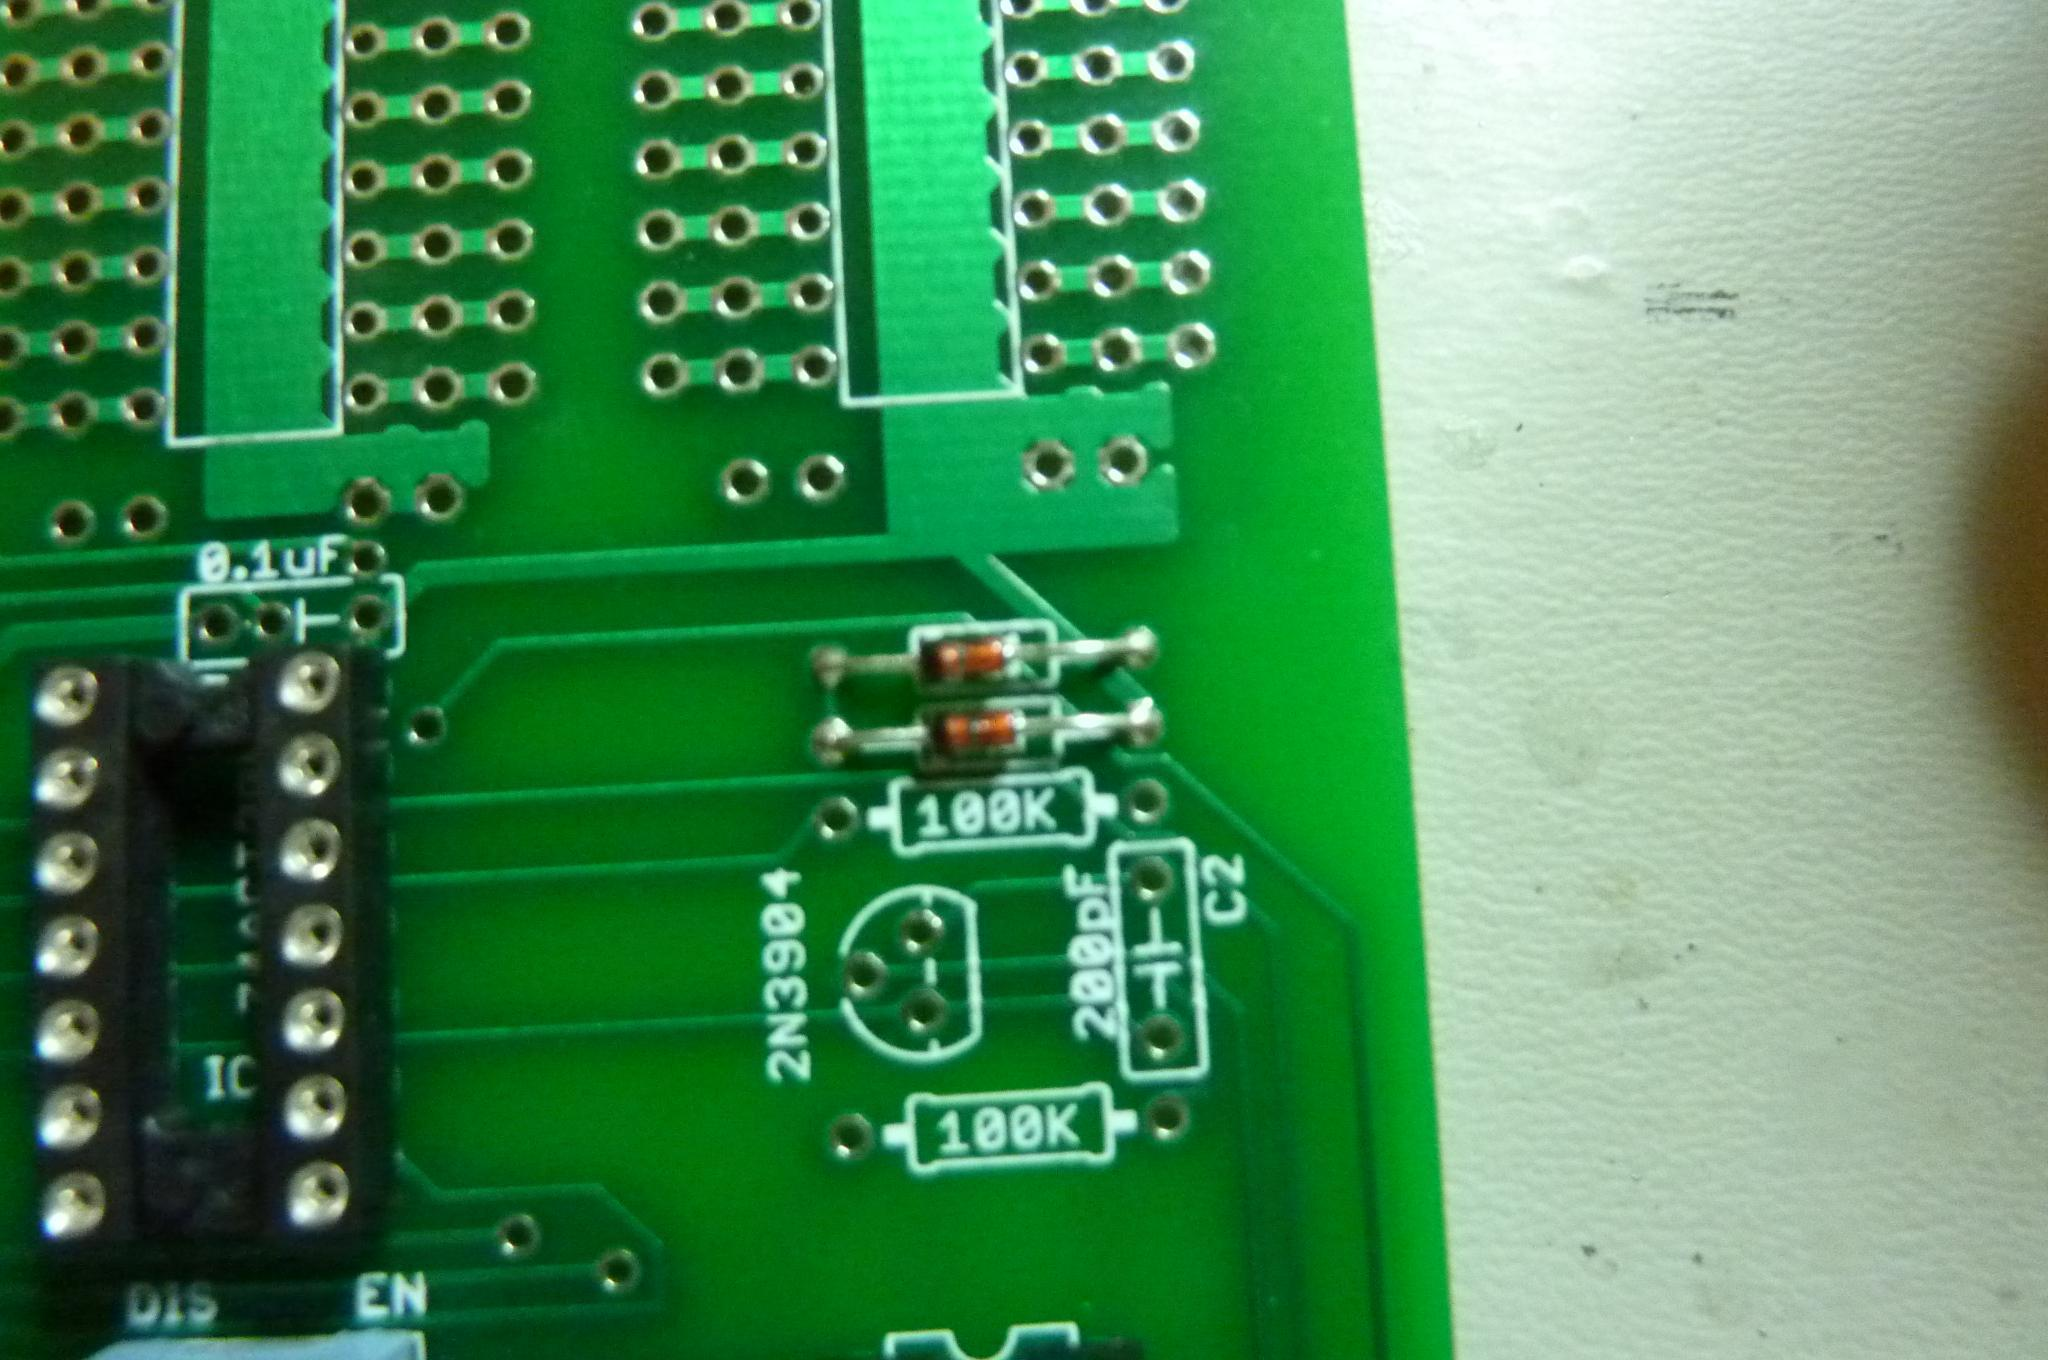
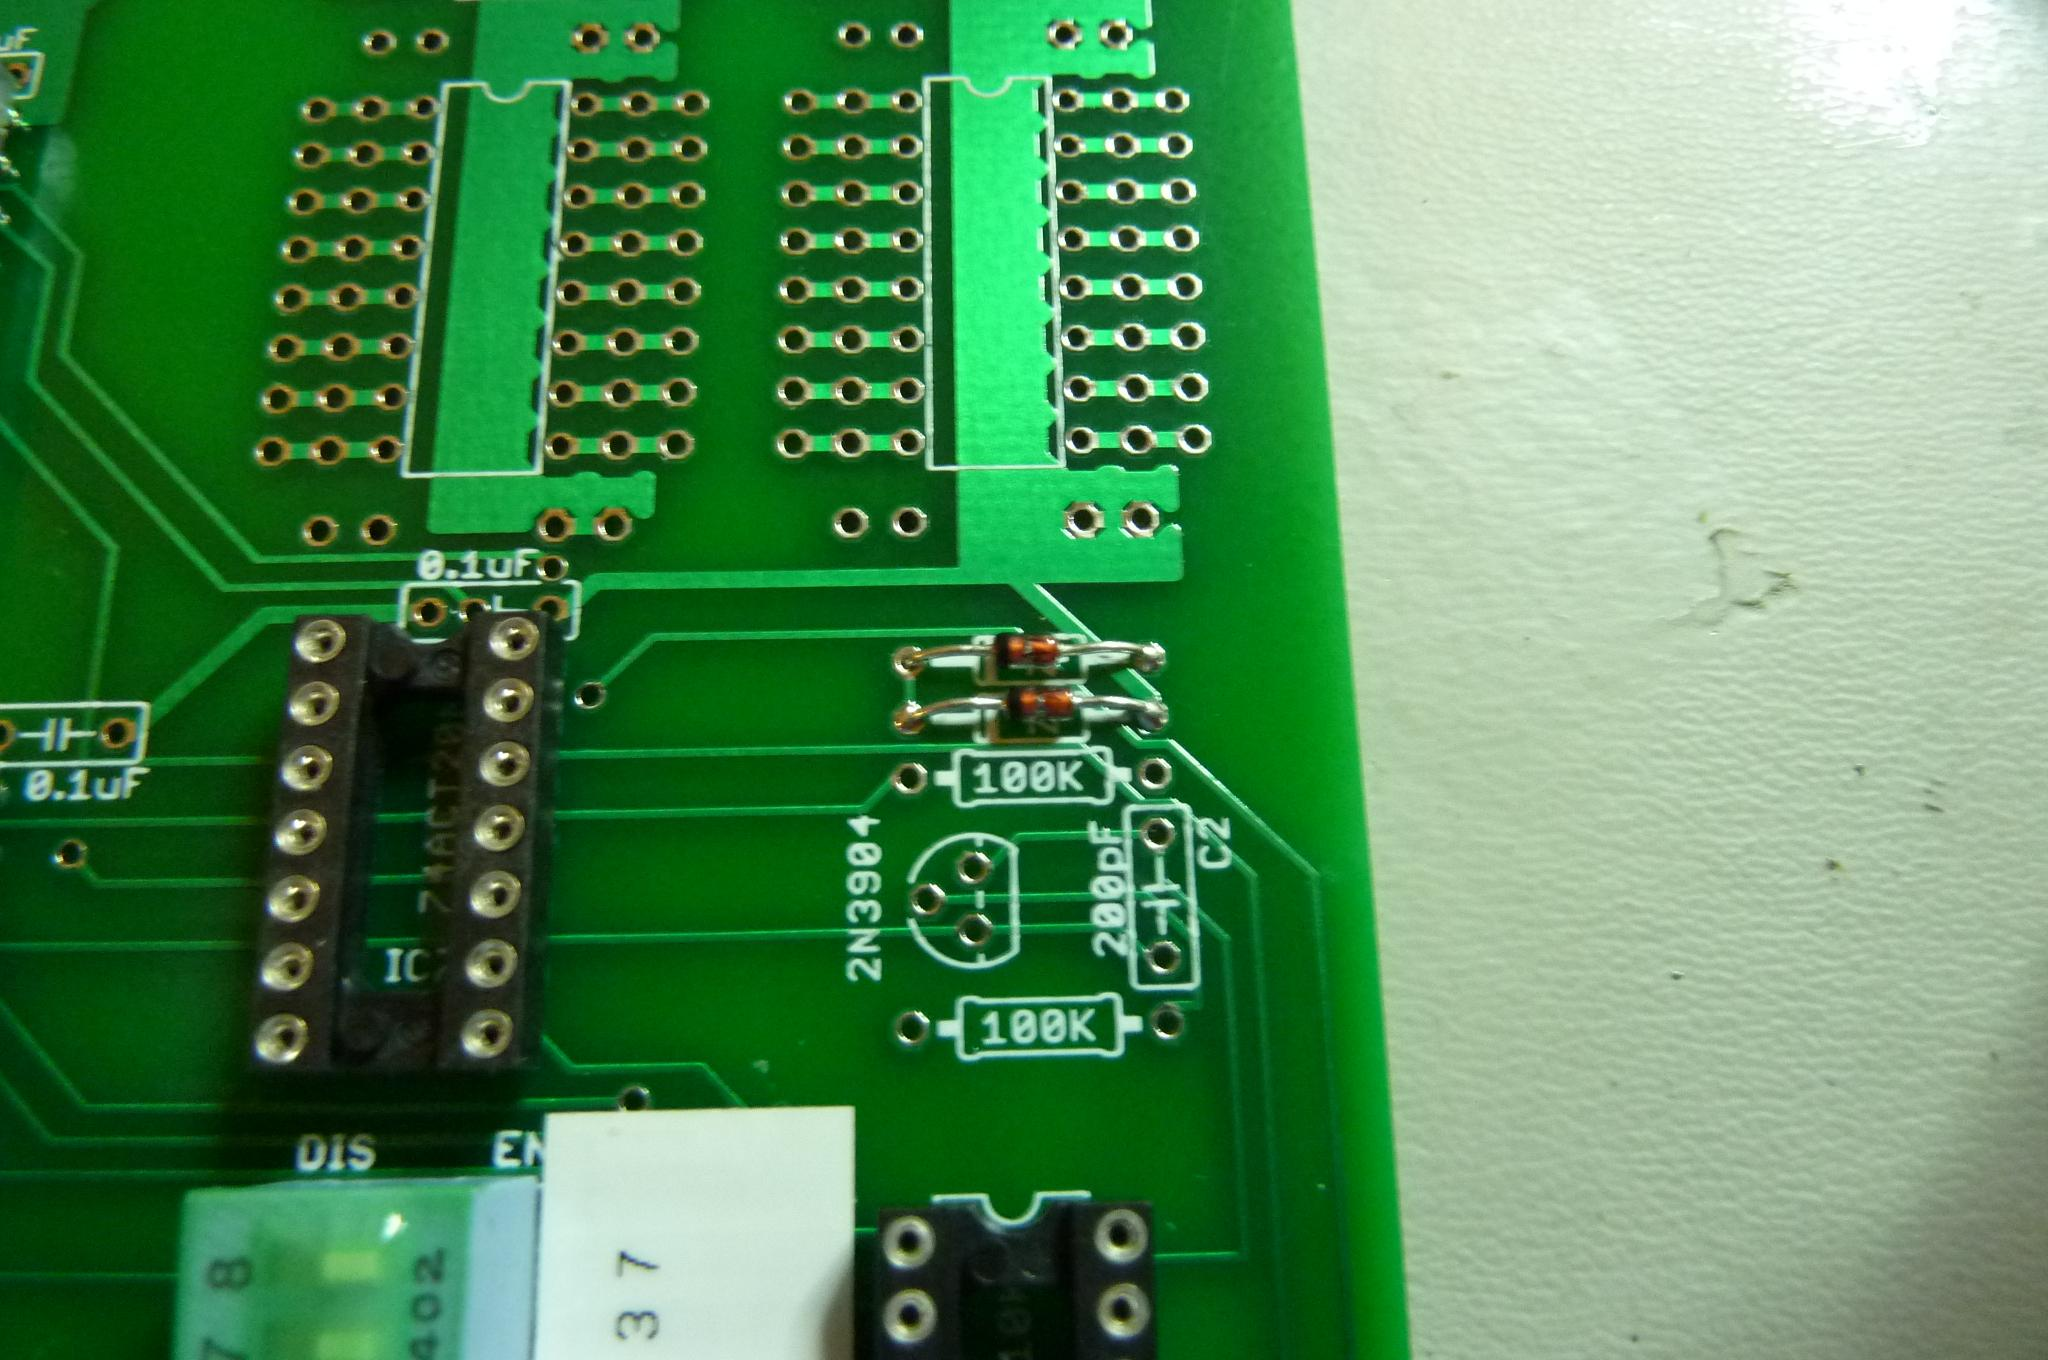
Update 32KOmnibus assembly instructions to match actual installation and usage of the DIP switch.  Update various pictures to show the DIP switch installed correctly.

diff --git a/so-much-stuff.com/pdp8/32KOmnibus/32KOmnibus.php b/so-much-stuff.com/pdp8/32KOmnibus/32KOmnibus.php
@@ -42,14 +42,6 @@ from the board shop.
 is the one with the components marked, and also is the side from 
 which the components are inserted.
   </A></TD>
-  <TD>
-    <A href="/pdp8/32KOmnibus/P1040569.jpg">
-    <IMG src="/pdp8/32KOmnibus/P1040569.jpg" width=320>
-    <A href="/pdp8/32KOmnibus/P1040570.jpg">
-    <IMG src="/pdp8/32KOmnibus/P1040570.jpg" width=320>
-    <P>These are pictures of a defect in the keyways of the boards, 
-which will hopefully be corrected before you receive them.
-  </A></TD>
 </TABLE><P><TABLE>
   <TD>
     <A href="/pdp8/32KOmnibus/P1040575.jpg">
@@ -81,14 +73,20 @@ a 14 pin socket into a place where the 16 pin socket should be.
   <TD>
     <A href="/pdp8/32KOmnibus/P1040580.jpg">
     <IMG src="/pdp8/32KOmnibus/P1040580.jpg" width=320>
-    <P>Solder in the DIP switch.  The orientation shown should correctly 
-number the banks of memory, so that switch one controls the first bank 
-(00000-07777), etc.
+    <P>Solder in the DIP switch.  The orientation shown will correctly 
+make the "disabled" position to the left.  The silkscreen is wrong about 
+the dip switch orientation, and also about the ordering of the banks.  
+I've made a little sticker which numbers the banks to match the actual 
+implementation.
+    <P>It is also possible to cut traces and install blue wires to 
+interchange pin 1 and pin 3 of IC5 (which is just below the DIP 
+switch).  This should make the switches correspond to the banks
+as indicated by the silk screen.
   </A></TD>
   <TD>
     <A href="/pdp8/32KOmnibus/P1040583.jpg">
     <IMG src="/pdp8/32KOmnibus/P1040583.jpg" width=320>
-    <P>Solder in electrolytic.  This is a polarized component, so be 
+    <P>Solder in the electrolytic.  This is a polarized component, so be 
 sure that the "-" end is away from the edge connector, and the ridged 
 end is toward them, as shown.  Bend the long leads slightly after inserting, 
 so that the part doesn't fall back out.  Trim the leads after soldering.
@@ -142,8 +140,6 @@ Bend the center lead back gently to get it into the hole.
   </A></TD>
 </TABLE><P><TABLE>
   <TD>
-    <A href="/pdp8/32KOmnibus/P1040591.jpg">
-    <IMG src="/pdp8/32KOmnibus/P1040591.jpg" width=320>
     <A href="/pdp8/32KOmnibus/P1040592.jpg">
     <IMG src="/pdp8/32KOmnibus/P1040592.jpg" width=320>
     <P>Insert the various chips.  Be sure to get the right chips 
